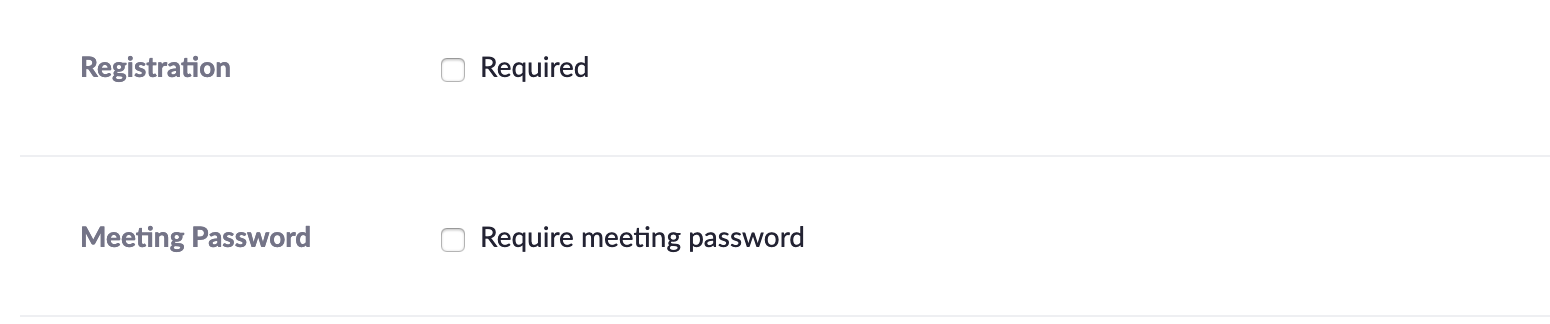
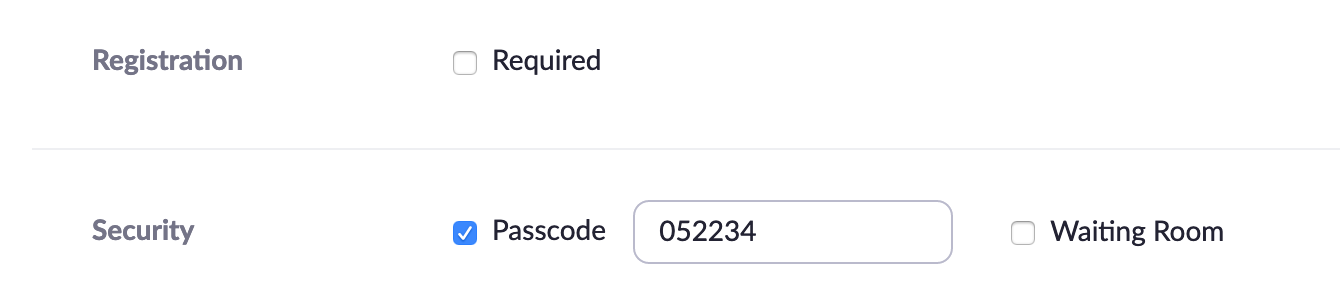
update zoom login info

diff --git a/pages/02.online-learning-on-ramp/03.running-a-session/02.conferencing/docs.md b/pages/02.online-learning-on-ramp/03.running-a-session/02.conferencing/docs.md
@@ -16,11 +16,13 @@ Video conferencing is a great way to connect with students online. Consider havi
 
 ##### zoom.us
 
-You can now go to [twu.zoom.us](https://twu.zoom.us), tap or click 'Sign In' and sign in to Zoom using your TWU Pass credentials.
+!! **Do NOT try to use Zoom to proctor or otherwise supervise an exam. It is utterly inadequate for the task, and it creates an environment that is hostile to learners performing their best on an assessment. [See this link for alternate assessment ideas.](https://create.twu.ca/help/online-learning-on-ramp/finishing-well/rethinking-assessment)**
+
+Go to [twu.zoom.us](https://twu.zoom.us), tap or click 'Sign In' and sign in to Zoom using your TWU Office365 credentials (firstname.lastname@**twu.ca** for faculty and staff or firstname.lastname@**mytwu.ca** for learners).
 
 ![alt_text](zoom-1.png "Zoom Sign-in Page")
 
-OR, if you already have the Zoom app installed, you can open it and choose 'Sign In with SSO' and use your TWU Pass credentials.
+OR, if you already have the Zoom app installed, you can open it and choose 'Sign In with SSO' and use your TWU Office365 credentials (firstname.lastname@twu.ca or firstname.lastname@mytwu.ca).
 
 ![alt_text](zoom-2.png "Zoom App Sign-in")
 
@@ -29,7 +31,7 @@ Once you are signed in, we recommend that you schedule **one** Zoom session per 
 ###### Click 'Schedule a Meeting'
 ![alt_text](zoom-3.png "click schedule a meeting")
 
-###### The following settings are recommended, but feel free to adjust to your circumstances.
+###### The following settings are suggested, but feel free to adjust to your circumstances.
 ![alt_text](zoom-5.png "session topic")
 - use your course code for the 'Topic' and the title of the course for the 'Description'.
 
@@ -38,13 +40,17 @@ Once you are signed in, we recommend that you schedule **one** Zoom session per 
 - set the duration for your normal class duration plus about 30 minutes (15 minutes before and after class)
 - select the 'Recurring Meeting' checkbox to indicate any other days of the week that you meet
 - set it to recur weekly and repeat every one week
-- set the end date to April 29
+
+!!!! Alternately, you can choose 'No Fixed Time' in the 'Recurrence' settings and leave the session open for drop-ins.
 
 ![alt_text](zoom-6.png "security settings")
-- ensure that both 'Registration' and 'Meeting Password' are deselected.
+- you may want to require registration to ensure your learners are logging in with their TWU credentials
+  - this is important if you want to pre-set breakout rooms
+- Zoom will be requiring a passcode for all sessions in an upcoming update.
 
 ![alt_text](zoom-7.png "video settings")
 - ensure that video settings are both set to 'Off'
+- remember that faculty are expected to allow learners to keep their video feed off.
 
 ![alt_text](zoom-8.png "call-in settings")
 - allow both telephone and computer audio to allow participants to dial in if they don't have a stable network connection
@@ -59,6 +65,8 @@ On the next page...
 ![alt_text](zoom-10.png "invite link")
 - you can either simply share the link provided on the meeting page, or
 - tap or click 'Copy the invitation'
+
+!! Do NOT share this link on an open website or in any social media (Instagram, Twitter, etc.)
 
 !!!! We recommend that you post this invitation, including the join link and the call-in numbers, prominently in your Moodle site where learners will know to find it. You may also choose to email it to your class list, and include the basic information in any reminders.
 
@@ -80,6 +88,7 @@ On the next page...
 ##### Zoom FAQ
 [TWIT has created a page of resources (many of which are duplicated here) including a list of FAQs.](https://trinitywestern.teamdynamix.com/TDClient/1904/Portal/KB/ArticleDet?ID=101246)
 
+<!--
 ##### BlueJeans
 TWU continues to provide central management of BlueJeans for web-conferencing, however, our service agreement with BlueJeans will expire after April 30, 2020.
 
@@ -88,6 +97,8 @@ If you have access to a BlueJeans license through TWU, you may continue to use t
 !! TWU will **NOT** be providing NEW BlueJeans licenses to faculty at this time. If you do not currently use BlueJeans and want to set up web-conferencing for the remainder of your classes, please see the instructions above to sign in to Zoom.
 
 - [Tap of click here to access BlueJeans support for getting started.](https://support.bluejeans.com/s/getting-started-meetings-user-step-1)
+
+-->
 
 ##### Other services
 There are several other options for faculty who may have already established means of synchronous communication such as Skype, FaceTime, Google Hangouts, Slack, Discord, etc. Our ability to troubleshoot these services will be very limited.
